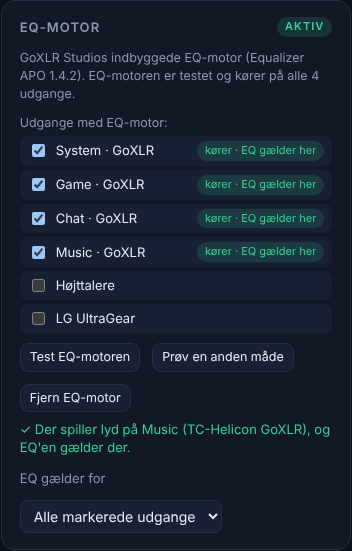
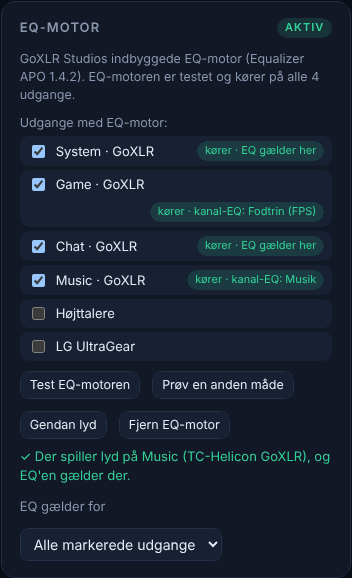
README: nye skærmbilleder (sliders, EQ pr. app, Fodpedal, lyst tema)
Skærmbillederne er taget igen med demo-data (generiske eksempler) og viser nu
EQ pr. app, Fodpedal og Lyst tema; scriptet sætter selv pedaler og EQ pr. app
op og fjerner demoens opdateringsbanner.

Claude-Session: https://claude.ai/code/session_01Gb4jBcjq8N1kApyY6GBwh1

diff --git a/README.md b/README.md
@@ -101,6 +101,8 @@ Linket starter også GoXLR Studio, hvis appen ikke kører.
 
 ### Fodpedal
 
+![Fodpedal](docs/screenshots/fodpedal.png)
+
 Brug en fodpedal som knap – fx push-to-talk med foden. USB-pedaler, der sender en tast, Elgato Stream Deck Pedal og MIDI-pedaler/-controllere. Hver pedal kan køre en handling ved tryk, virke mens den holdes (push-to-talk/-mute), gøre to forskellige ting ved kort tryk og hold – og en MIDI-fader kan styre en kanals lydstyrke. Tryk "+ Tilføj pedal" og træd på den.
 
 ### Scener
@@ -131,11 +133,13 @@ GoXLR Studio tager backup af det hele og henter dine AutoHotkey-genveje, Peace-p
 
 ![Indstillinger](docs/screenshots/indstillinger.png)
 
+![Lyst tema](docs/screenshots/tema-lyst.png)
+
 - **Discord:** GoXLR'ens mute-knap muter også Discord, med det røde ikon
 - Auto-ducking, der skruer ned for musik og spil, mens du taler – eller mens vennerne taler i Discord
 - **Høreværn:** påmindelse efter lang tid med høj lyd og et valgfrit loft for hovedtelefonerne
 - **Profilhistorik:** tidligere versioner af dine GoXLR- og mikrofonprofiler kan gendannes
-- **Temaer:** lyst, mørkt (eller automatisk som Windows), Sort (OLED), Nordlys, Solnedgang, Skov og Papir – og valgfri accentfarve
+- **Temaer** (her Lyst): lyst, mørkt (eller automatisk som Windows), Sort (OLED), Nordlys, Solnedgang, Skov og Papir – og valgfri accentfarve
 - Start med Windows og luk til bakke-ikonet
 - Automatiske opdateringer
 - **Home Assistant** via MQTT: GoXLR Studio dukker op som en enhed med mikrofon-mute, "Mikrofon åben" (fx til en ON AIR-lampe), GoXLR-profil, EQ-preset, scene og lydstyrker

diff --git a/README.en.md b/README.en.md
@@ -103,6 +103,8 @@ The link also starts GoXLR Studio if the app isn't running.
 
 ### Foot pedal
 
+![Foot pedal](docs/screenshots/fodpedal.png)
+
 Use a foot pedal as a button – e.g. push-to-talk with your foot. USB pedals that send a key, the Elgato Stream Deck Pedal and MIDI pedals/controllers. Each pedal can run an action when pressed, work while held (push-to-talk/-mute), do two different things on a short press and a hold – and a MIDI fader can control a channel's volume. Press "+ Add pedal" and step on it.
 
 ### Soundboard
@@ -136,6 +138,8 @@ GoXLR Studio backs everything up and brings over your AutoHotkey hotkeys, Peace 
 ### Settings, Discord and much more
 
 ![Settings](docs/screenshots/indstillinger.png)
+
+![Light theme](docs/screenshots/tema-lyst.png)
 
 - **Discord:** the GoXLR's mute button also mutes (and can deafen) Discord, with the red icon
 - **Mic safety:** a warning when you talk while muted, and the mic is muted when you lock the PC (Win+L)
